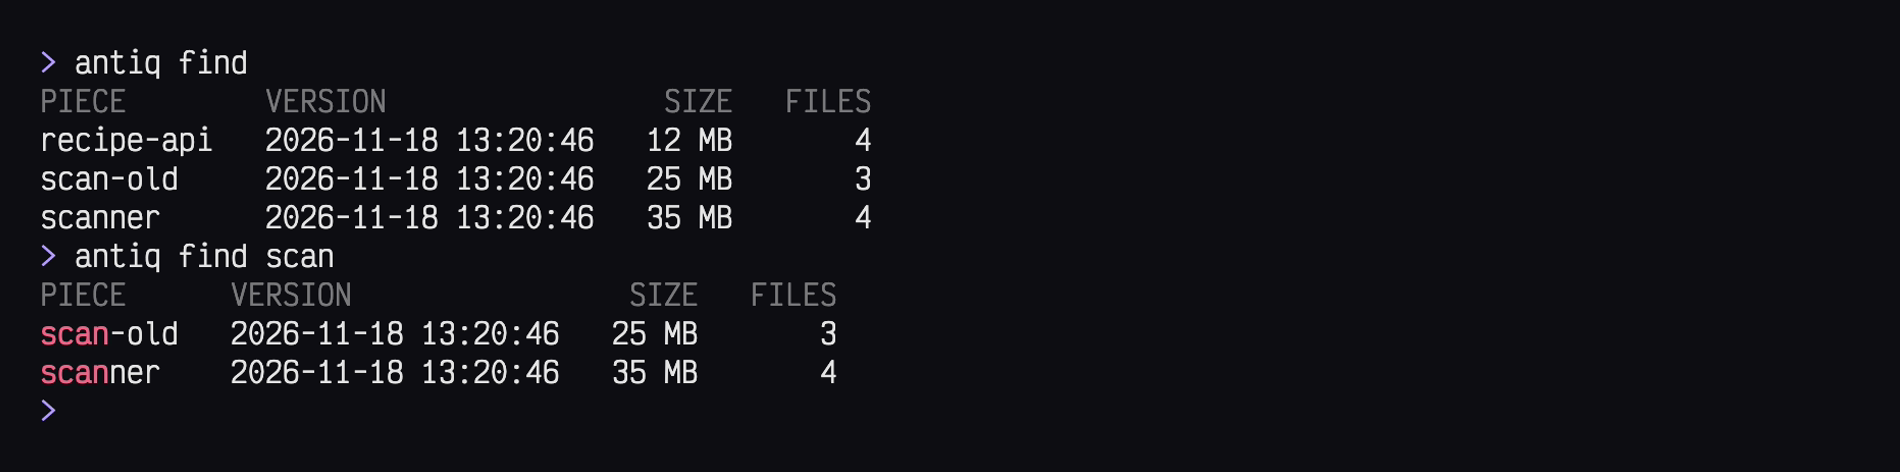
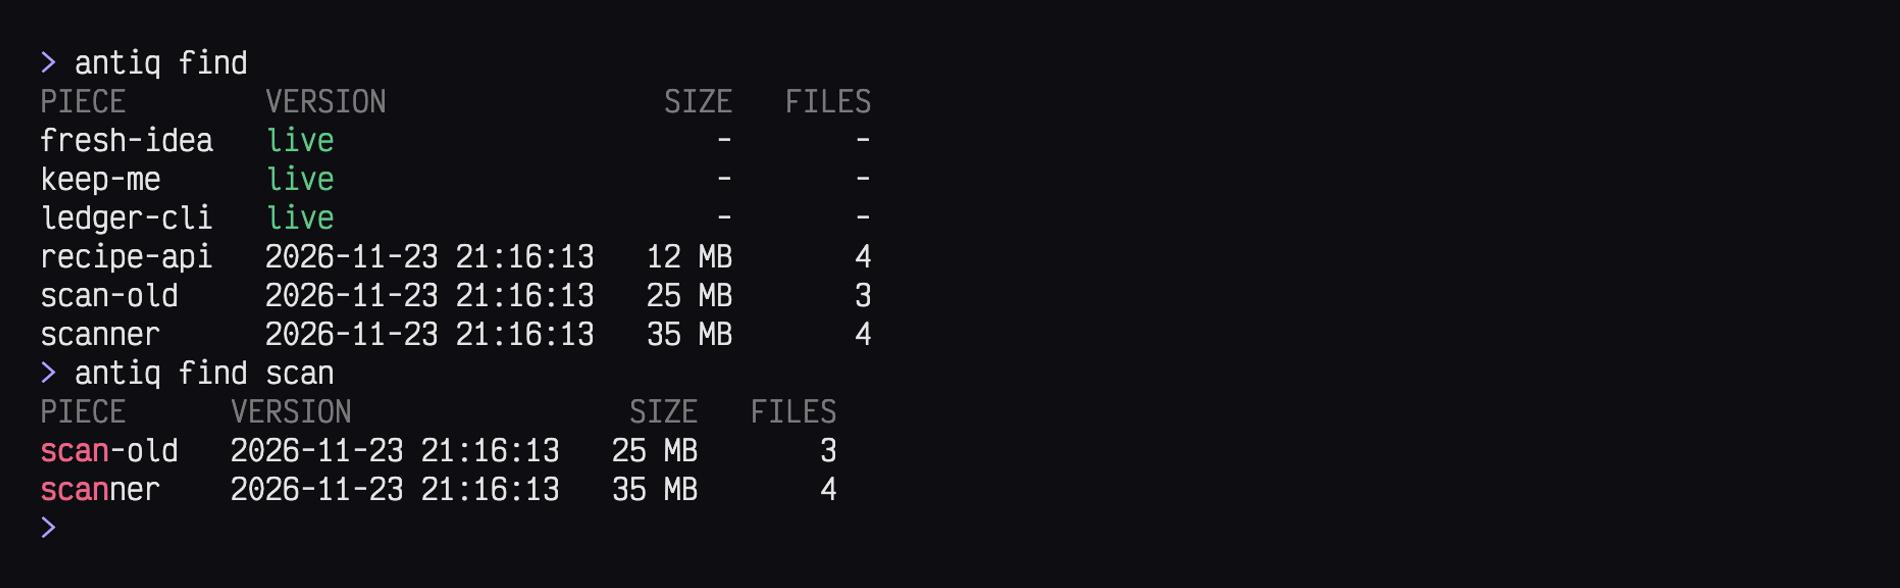
Show the live folders in the find screenshot of the README

diff --git a/README.md b/README.md
@@ -228,8 +228,8 @@ antiq find
 antiq find scan
 ```
 
-![antiq find shows the archived pieces recipe-api, scan-old and scanner with their versions, then antiq find scan shows only scan-old and scanner with the letters of scan in red](docs/pages/assets/shots/find.png)
-*`find` shows the whole archive, a search word narrows it*
+![antiq find shows the live folders fresh-idea, keep-me and ledger-cli and the archived pieces recipe-api, scan-old and scanner with their versions, then antiq find scan shows only scan-old and scanner with the letters of scan in red](docs/pages/assets/shots/find.png)
+*`find` shows the live folders and the whole archive, a search word narrows it*
 
 ### Searching inside the archives
 
